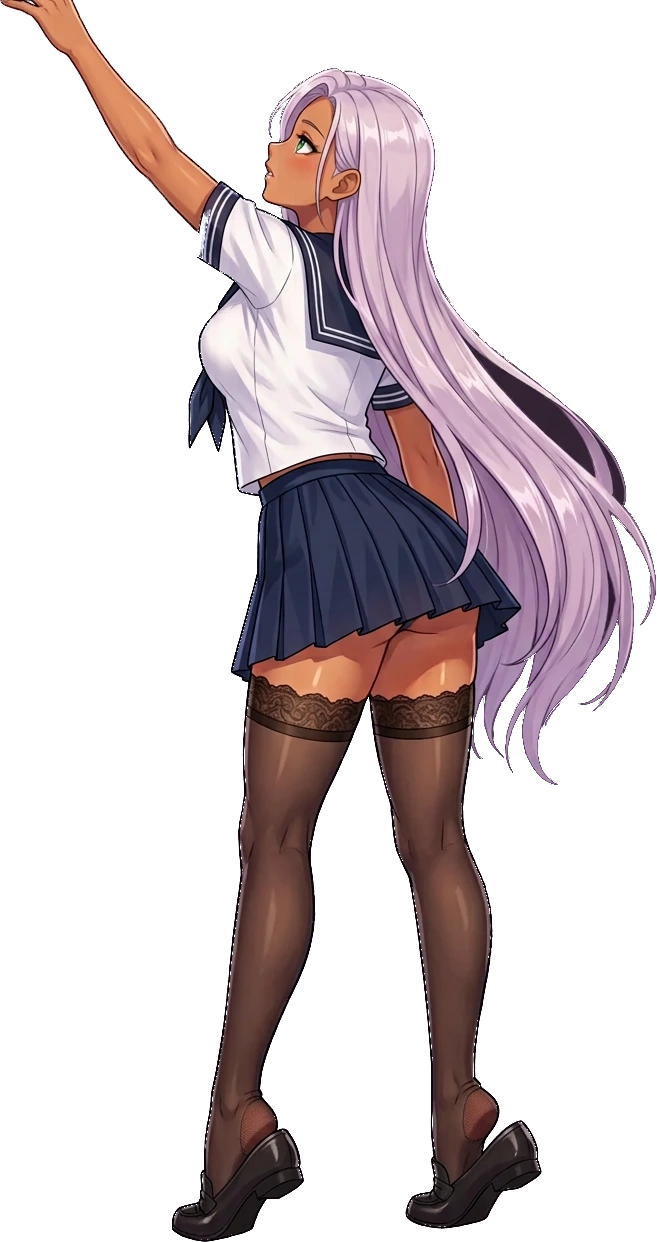
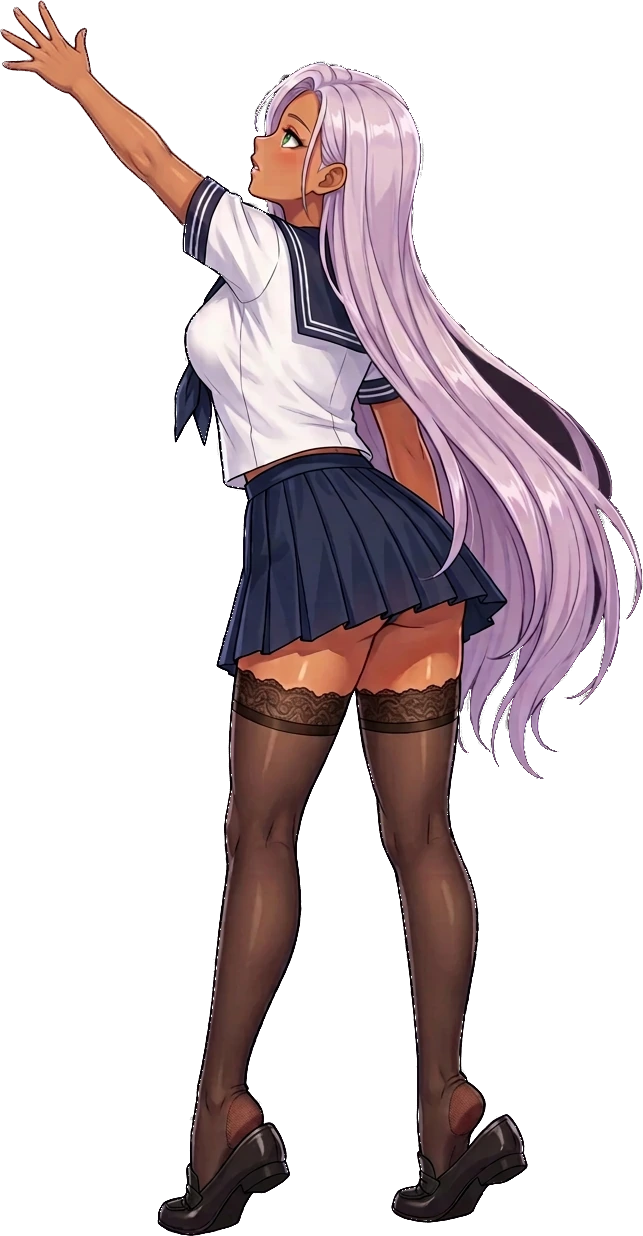
BLOCK H phase 2: shelf corner backdrop, fixed fingers, blink, blush, slipping stocking
- room-shelf.webp replaced: the bookshelf now lives on the previously
  UNSEEN corner wall of the approved room (style-matched gen: same wood,
  wall color, floor boards, warm lamp light; floor lamp + framed picture),
  so the main standing backdrop no longer carries a baked-in shelf
- heroine plate rebuilt from pose v7: the raised hand now shows ALL five
  fingers fully inside the frame (v6 fingertips were clipped by the canvas)
- stable-plate overlays cut from aligned v7 variants (bed-scene method,
  feathered 6px, de-fringed keying):
  * shelf-blink.png — closed eyelid, driven by the shared blinkOverlayAt
  * shelf-blush.png — embarrassed cheek flush (under the blink plate)
  * shelf-stocking.png — the near stocking rolled down into a soft ring
    above the knee, bare thigh exposed
- reactions: head tap -> blush; thigh tap -> blush + the stocking slips
  down (420ms roll, 2.6s hold, 700ms ease-back); plus it slips on its own
  once per 19s ambient cycle; every tap keeps the tiptoe dip-bounce
- new placement constants (foot anchor 744/1660, display H 1098) keep her
  glued to the new shelf on every screen; figure now fully inside the room
- tests: patches/envelopes/ambient cycle (60 pass); live DPR3 QA proof in
  qa-animation/pose-shelf/block-h2-reactions.png

Changed region(s): [[0.0, 0.0, 1.0, 1.0]]

diff --git a/src/heroine/shelf/ShelfHeroine.ts b/src/heroine/shelf/ShelfHeroine.ts
@@ -1,11 +1,20 @@
 import { Assets, Container, Graphics, Sprite, Texture } from "pixi.js";
+import shelfBlinkUrl from "../../assets/environment/shelf-blink.png?url";
+import shelfBlushUrl from "../../assets/environment/shelf-blush.png?url";
 import shelfHeroineUrl from "../../assets/environment/shelf-heroine.webp?url";
+import shelfStockingUrl from "../../assets/environment/shelf-stocking.png?url";
+import { blinkOverlayAt } from "../rig/animationMath.ts";
 import {
   SHELF_ART_H,
   SHELF_ART_W,
+  SHELF_BLUSH_ENVELOPE,
   SHELF_MOTION,
+  SHELF_PATCHES,
   SHELF_ROOM,
   SHELF_ROOM_ART_SCALE,
+  SHELF_STOCKING_ENVELOPE,
+  shelfAmbientStockingAt,
+  shelfEnvelopeAt,
   shelfPulseAt,
   type ShelfTouchZone,
 } from "./shelfScene.ts";
@@ -22,18 +31,25 @@ interface ShelfHitShape {
 
 /**
  * BLOCK H shelf scene: the approved shelf-reach cutout rendered above the
- * `room-shelf.webp` backdrop (room + baked-in bookshelf).  The scene owner
- * aligns this container to the cover-fitted backdrop through
- * {@link alignToBackdrop}, so the figure stays glued to the bookshelf and
- * the floor boards on every screen size and crop.
+ * `room-shelf.webp` backdrop (the previously unseen corner wall of the
+ * room with the bookshelf).  The scene owner aligns this container to the
+ * fitted backdrop through {@link alignToBackdrop}, so the figure stays
+ * glued to the bookshelf and the floor boards on every screen size.
  *
  * The inner art root pivots at the shoe tips (bottom center), so breathing
  * and the tiptoe bob scale the figure upward from the planted toes — the
  * shoes never slide on the floor.
+ *
+ * Reactions follow the bed-scene stable-plate-plus-overlay rule: the base
+ * plate never swaps; the blink, blush and slipped-stocking plates are
+ * feathered patches cut from aligned pose variants that fade above it.
  */
 export class ShelfHeroine extends Container {
   private readonly artRoot = new Container();
   private readonly art = new Sprite(Texture.EMPTY);
+  private readonly blushPatch = new Sprite(Texture.EMPTY);
+  private readonly blinkPatch = new Sprite(Texture.EMPTY);
+  private readonly stockingPatch = new Sprite(Texture.EMPTY);
   private readonly hitLayer = new Container();
   private readonly onTap: (
     zone: ShelfTouchZone,
@@ -43,6 +59,8 @@ export class ShelfHeroine extends Container {
   private timeMs = 0;
   private loaded = false;
   private pulseAt = Number.NEGATIVE_INFINITY;
+  private blushPulseAt = Number.NEGATIVE_INFINITY;
+  private stockingPulseAt = Number.NEGATIVE_INFINITY;
 
   constructor(
     onTap: (zone: ShelfTouchZone, globalX: number, globalY: number) => void,
@@ -52,15 +70,41 @@ export class ShelfHeroine extends Container {
     this.onTap = onTap;
 
     this.art.eventMode = "none";
+    for (const [patch, place] of [
+      [this.blushPatch, SHELF_PATCHES.blush],
+      [this.blinkPatch, SHELF_PATCHES.blink],
+      [this.stockingPatch, SHELF_PATCHES.stocking],
+    ] as const) {
+      patch.eventMode = "none";
+      patch.position.set(place.x, place.y);
+      patch.alpha = 0;
+    }
     this.artRoot.pivot.set(SHELF_ART_W / 2, SHELF_ART_H);
-    this.artRoot.addChild(this.art, this.hitLayer);
+    // Blink sits ABOVE blush so the closed-eyes plate wins over the blush
+    // plate's open eye while she blinks; the stocking patch is disjoint.
+    this.artRoot.addChild(
+      this.art,
+      this.blushPatch,
+      this.blinkPatch,
+      this.stockingPatch,
+      this.hitLayer,
+    );
     this.addChild(this.artRoot);
     this.buildHitZones();
   }
 
-  /** Loads the cutout plate; safe to call once from the scene constructor. */
+  /** Loads all plates; safe to call once from the scene constructor. */
   async load(): Promise<void> {
-    this.art.texture = await Assets.load<Texture>(shelfHeroineUrl);
+    const [art, blink, blush, stocking] = await Promise.all([
+      Assets.load<Texture>(shelfHeroineUrl),
+      Assets.load<Texture>(shelfBlinkUrl),
+      Assets.load<Texture>(shelfBlushUrl),
+      Assets.load<Texture>(shelfStockingUrl),
+    ]);
+    this.art.texture = art;
+    this.blinkPatch.texture = blink;
+    this.blushPatch.texture = blush;
+    this.stockingPatch.texture = stocking;
     this.loaded = true;
   }
 
@@ -69,8 +113,8 @@ export class ShelfHeroine extends Container {
   }
 
   /**
-   * Glues the figure to the cover-fitted backdrop: `x`/`y` are the screen
-   * position of the backdrop's top-left corner and `scale` its cover scale
+   * Glues the figure to the fitted backdrop: `x`/`y` are the screen
+   * position of the backdrop's top-left corner and `scale` its fit scale
    * (backdrop art px -> screen px), exactly as the scene computed them.
    */
   alignToBackdrop(x: number, y: number, scale: number): void {
@@ -81,7 +125,7 @@ export class ShelfHeroine extends Container {
     this.scale.set(scale * SHELF_ROOM_ART_SCALE);
   }
 
-  /** Drives breathing, the tiptoe bob, the sway and tap pulses. */
+  /** Drives motion, blink, blush and the slipping stocking. */
   update(elapsedMs: number): void {
     if (!Number.isFinite(elapsedMs) || elapsedMs <= 0) return;
     this.timeMs += elapsedMs;
@@ -98,11 +142,33 @@ export class ShelfHeroine extends Container {
     this.artRoot.skew.x =
       Math.sin((2 * Math.PI * t) / SHELF_MOTION.swayPeriodMs) *
       SHELF_MOTION.swaySkew;
+
+    this.blinkPatch.alpha = blinkOverlayAt(t).weight;
+    this.blushPatch.alpha = shelfEnvelopeAt(
+      t - this.blushPulseAt,
+      SHELF_BLUSH_ENVELOPE,
+    );
+    this.stockingPatch.alpha = Math.max(
+      shelfAmbientStockingAt(t),
+      shelfEnvelopeAt(t - this.stockingPulseAt, SHELF_STOCKING_ENVELOPE),
+    );
   }
 
   /** Visible reaction of one tapped zone; economy stays in the scene. */
-  private reactToTap(): void {
+  private reactToTap(zone: ShelfTouchZone): void {
     this.pulseAt = this.timeMs;
+    switch (zone) {
+      case "head":
+        this.blushPulseAt = this.timeMs;
+        break;
+      case "thighs":
+        this.blushPulseAt = this.timeMs;
+        this.stockingPulseAt = this.timeMs;
+        break;
+      case "hair":
+      case "feet":
+        break;
+    }
   }
 
   private buildHitZones(): void {
@@ -114,28 +180,28 @@ export class ShelfHeroine extends Container {
         zone: "hair",
         draw: (g) => {
           // The long fall of hair down her right side, plus the crown.
-          g.rect(430, 130, 227, 660).fill({ color: 0xffffff, alpha: 1 });
-          g.rect(300, 40, 150, 120).fill({ color: 0xffffff, alpha: 1 });
+          g.rect(416, 124, 227, 660).fill({ color: 0xffffff, alpha: 1 });
+          g.rect(286, 34, 150, 120).fill({ color: 0xffffff, alpha: 1 });
         },
       },
       {
         zone: "thighs",
         draw: (g) => {
           // Pleated skirt, hips and the lace stocking tops.
-          g.rect(215, 440, 300, 310).fill({ color: 0xffffff, alpha: 1 });
+          g.rect(201, 434, 300, 310).fill({ color: 0xffffff, alpha: 1 });
         },
       },
       {
         zone: "feet",
         draw: (g) => {
           // Calves, raised stockinged heels and the shoes.
-          g.rect(170, 750, 400, 492).fill({ color: 0xffffff, alpha: 1 });
+          g.rect(156, 744, 400, 492).fill({ color: 0xffffff, alpha: 1 });
         },
       },
       {
         zone: "head",
         draw: (g) => {
-          g.ellipse(330, 125, 115, 95).fill({ color: 0xffffff, alpha: 1 });
+          g.ellipse(316, 119, 115, 95).fill({ color: 0xffffff, alpha: 1 });
         },
       },
     ];
@@ -147,7 +213,7 @@ export class ShelfHeroine extends Container {
       g.cursor = "pointer";
       g.label = `shelf zone ${shape.zone}`;
       g.on("pointertap", (event) => {
-        this.reactToTap();
+        this.reactToTap(shape.zone);
         this.onTap(shape.zone, event.global.x, event.global.y);
       });
       this.hitLayer.addChild(g);

diff --git a/src/heroine/shelf/shelfScene.ts b/src/heroine/shelf/shelfScene.ts
@@ -1,28 +1,43 @@
 import type { HeroineTouchZone } from "../../domain/economy/types.ts";
 
 /** Native pixel grid of the shelf-reach heroine cutout (webp with alpha). */
-export const SHELF_ART_W = 657;
-export const SHELF_ART_H = 1242;
+export const SHELF_ART_W = 643;
+export const SHELF_ART_H = 1236;
 
 /**
  * Placement of the heroine inside the `room-shelf.webp` backdrop grid
- * (1152x2048): the approved scene mock puts her figure in the box
- * (602, 649, 606x1146) — feet planted on the floor boards in front of the
- * baked-in bookshelf, raised hand gripping the top shelf edge.
+ * (1152x2048): the backdrop is the previously unseen corner wall of the
+ * approved room with the tall bookshelf, floor lamp and framed picture.
+ * She stands on the empty floor in front of the shelf, raised hand with
+ * all five fingers reaching just under the top shelf lip.
  */
 export const SHELF_ROOM = {
   /** Backdrop art size the placement refers to. */
   roomW: 1152,
   roomH: 2048,
   /** Bottom-center anchor of the figure in backdrop pixels (shoe tips). */
-  footCenterX: 602 + 606 / 2,
-  footY: 649 + 1146,
+  footCenterX: 744,
+  footY: 1660,
   /** Display height of the figure in backdrop pixels. */
-  displayH: 1146,
+  displayH: 1098,
 } as const;
 
 /** Figure scale in backdrop pixels per cutout pixel. */
 export const SHELF_ROOM_ART_SCALE = SHELF_ROOM.displayH / SHELF_ART_H;
+
+/**
+ * Feathered patch plates cut from the pose variants, positioned on the
+ * cutout pixel grid (same stable-plate-plus-overlay rule as the bed
+ * scene: the base plate never swaps, overlays fade above it).
+ */
+export const SHELF_PATCHES = {
+  /** Closed eyelid for the auto-blink. */
+  blink: { x: 251, y: 96 },
+  /** Embarrassed cheek flush; sits UNDER the blink plate at the eye. */
+  blush: { x: 224, y: 84 },
+  /** The near stocking rolled down into a soft ring above the knee. */
+  stocking: { x: 215, y: 624 },
+} as const;
 
 /**
  * Ambient motion constants: she balances on tiptoe, so the whole plate
@@ -42,9 +57,53 @@ export const SHELF_MOTION = {
   pulseScale: 0.011,
 } as const;
 
+/** Attack/hold/release envelope of one overlay reaction, alpha 0..1. */
+export interface ShelfEnvelope {
+  attackMs: number;
+  holdMs: number;
+  releaseMs: number;
+}
+
+export const SHELF_BLUSH_ENVELOPE: ShelfEnvelope = {
+  attackMs: 180,
+  holdMs: 900,
+  releaseMs: 1_400,
+};
+
+/**
+ * The stocking rolls down slowly (attack), stays slipped for a moment,
+ * then eases back as she discreetly fixes it (release).
+ */
+export const SHELF_STOCKING_ENVELOPE: ShelfEnvelope = {
+  attackMs: 420,
+  holdMs: 2_600,
+  releaseMs: 700,
+};
+
+/**
+ * Ambient stocking-slip window: once per long cycle the stocking slips
+ * on its own, no tap needed — plus it always slips on a thigh tap.
+ */
+export const SHELF_STOCKING_AMBIENT = {
+  periodMs: 19_000,
+  startMs: 11_000,
+} as const;
+
 function smoothstep(t: number): number {
   const x = Math.min(1, Math.max(0, t));
   return x * x * (3 - 2 * x);
+}
+
+/** Envelope value at `ageMs` since the trigger, 0..1. */
+export function shelfEnvelopeAt(ageMs: number, env: ShelfEnvelope): number {
+  if (ageMs < 0) return 0;
+  if (ageMs < env.attackMs) return smoothstep(ageMs / env.attackMs);
+  const afterAttack = ageMs - env.attackMs;
+  if (afterAttack < env.holdMs) return 1;
+  const afterHold = afterAttack - env.holdMs;
+  if (afterHold < env.releaseMs)
+    return 1 - smoothstep(afterHold / env.releaseMs);
+  return 0;
 }
 
 /**
@@ -55,6 +114,15 @@ export function shelfPulseAt(ageMs: number): number {
   if (ageMs < 0 || ageMs >= SHELF_MOTION.pulseMs) return 0;
   const t = ageMs / SHELF_MOTION.pulseMs;
   return -Math.sin(2 * Math.PI * t) * (1 - smoothstep(t));
+}
+
+/** Ambient stocking weight inside the long cycle at loop time `timeMs`. */
+export function shelfAmbientStockingAt(timeMs: number): number {
+  const loopT = timeMs % SHELF_STOCKING_AMBIENT.periodMs;
+  return shelfEnvelopeAt(
+    loopT - SHELF_STOCKING_AMBIENT.startMs,
+    SHELF_STOCKING_ENVELOPE,
+  );
 }
 
 /** Touch zones of the shelf scene, named by what the player actually taps. */

diff --git a/tests/shelfScene.test.ts b/tests/shelfScene.test.ts
@@ -3,10 +3,16 @@ import test from "node:test";
 import {
   SHELF_ART_H,
   SHELF_ART_W,
+  SHELF_BLUSH_ENVELOPE,
   SHELF_MOTION,
+  SHELF_PATCHES,
   SHELF_ROOM,
   SHELF_ROOM_ART_SCALE,
+  SHELF_STOCKING_AMBIENT,
+  SHELF_STOCKING_ENVELOPE,
   SHELF_ZONE_ECONOMY,
+  shelfAmbientStockingAt,
+  shelfEnvelopeAt,
   shelfPulseAt,
   type ShelfTouchZone,
 } from "../src/heroine/shelf/shelfScene.ts";
@@ -61,6 +67,49 @@ test("SHELF SCENE: tap pulse is zero at rest and bounded during the bounce", () 
   assert.ok(peak > 0.4, "pulse never reaches a visible amplitude");
   // The first half dips (negative): she sinks before springing back up.
   assert.ok(shelfPulseAt(SHELF_MOTION.pulseMs * 0.2) < 0);
+});
+
+test("SHELF SCENE: overlay patches sit inside the cutout grid", () => {
+  for (const [name, patch] of Object.entries(SHELF_PATCHES)) {
+    assert.ok(
+      patch.x >= 0 && patch.x < SHELF_ART_W,
+      `${name} x outside the plate`,
+    );
+    assert.ok(
+      patch.y >= 0 && patch.y < SHELF_ART_H,
+      `${name} y outside the plate`,
+    );
+  }
+  // The blush plate must start above-left of the blink plate so the
+  // closed-eye overlay fully covers the blush plate's open eye.
+  assert.ok(SHELF_PATCHES.blush.x <= SHELF_PATCHES.blink.x);
+  assert.ok(SHELF_PATCHES.blush.y <= SHELF_PATCHES.blink.y);
+});
+
+test("SHELF SCENE: reaction envelopes rise, hold and fully decay", () => {
+  for (const env of [SHELF_BLUSH_ENVELOPE, SHELF_STOCKING_ENVELOPE]) {
+    assert.equal(shelfEnvelopeAt(-1, env), 0);
+    assert.equal(shelfEnvelopeAt(env.attackMs, env), 1, "hold must be full");
+    assert.equal(shelfEnvelopeAt(env.attackMs + env.holdMs - 1, env), 1);
+    const total = env.attackMs + env.holdMs + env.releaseMs;
+    assert.equal(shelfEnvelopeAt(total, env), 0, "must fully decay");
+    assert.equal(shelfEnvelopeAt(total + 10_000, env), 0);
+  }
+});
+
+test("SHELF SCENE: the stocking slips once per ambient cycle and resets", () => {
+  const period = SHELF_STOCKING_AMBIENT.periodMs;
+  const start = SHELF_STOCKING_AMBIENT.startMs;
+  const env = SHELF_STOCKING_ENVELOPE;
+  // Fully slipped mid-window, in every cycle.
+  const mid = start + env.attackMs + env.holdMs / 2;
+  assert.equal(shelfAmbientStockingAt(mid), 1);
+  assert.equal(shelfAmbientStockingAt(period * 3 + mid), 1);
+  // Fully reset before the window and at the top of the cycle.
+  assert.equal(shelfAmbientStockingAt(start - 1_000), 0);
+  assert.equal(shelfAmbientStockingAt(period - 1), 0);
+  // The whole slip fits inside one cycle — no carry-over between loops.
+  assert.ok(start + env.attackMs + env.holdMs + env.releaseMs < period);
 });
 
 test("SHELF SCENE: ambient amplitudes stay subtle on the shipped plate", () => {
